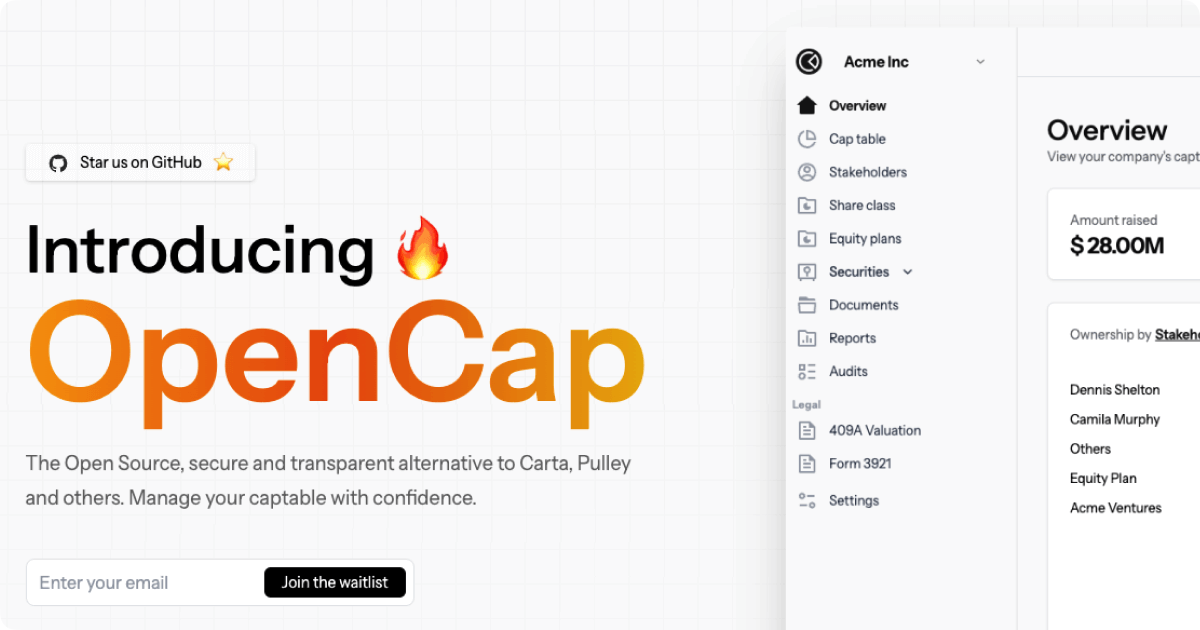
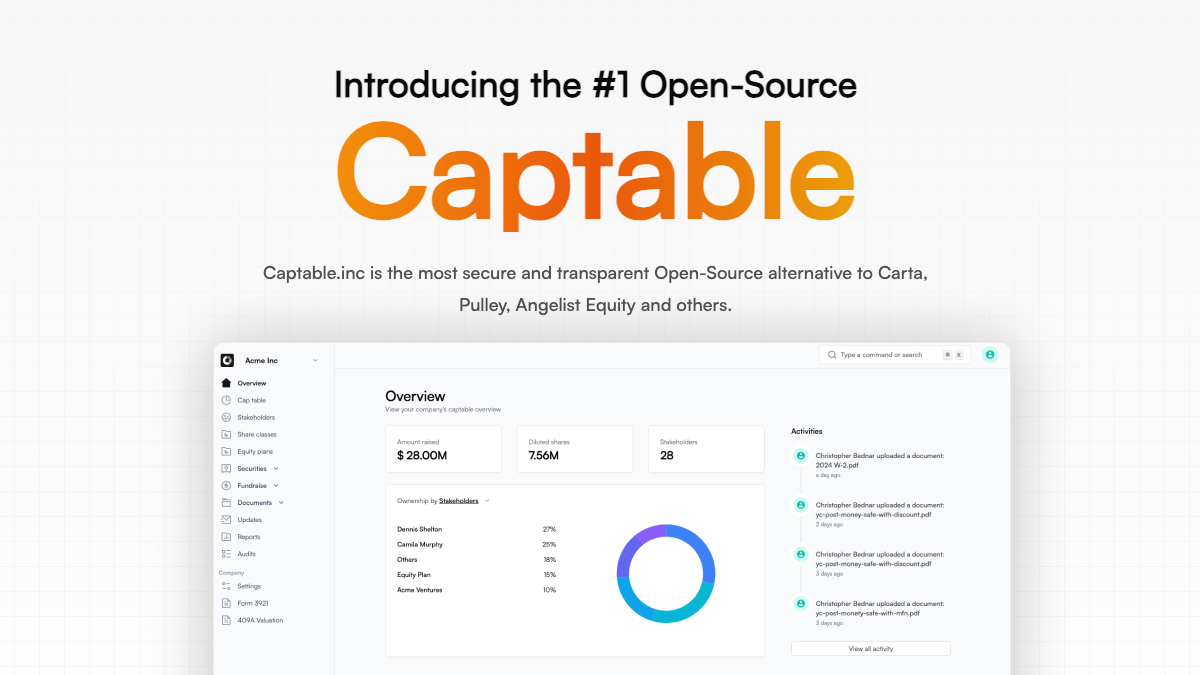
feat: renaming project to Captable, Inc.

diff --git a/src/components/document/share/document-share-modal.tsx b/src/components/document/share/document-share-modal.tsx
@@ -1,15 +1,17 @@
 "use client";
 
-import { useRouter } from "next/navigation";
 import { TagsInput } from "@ark-ui/react";
-import { RiClipboardLine, RiCloseLine } from "@remixicon/react";
-import { useForm } from "react-hook-form";
 import { zodResolver } from "@hookform/resolvers/zod";
+import { RiClipboardLine, RiCloseLine } from "@remixicon/react";
+import { useRouter } from "next/navigation";
+import { useForm } from "react-hook-form";
 
-import { Input } from "@/components/ui/input";
 import { Button } from "@/components/ui/button";
+import { Input } from "@/components/ui/input";
 import { Switch } from "@/components/ui/switch";
 
+import { generatePublicId } from "@/common/id";
+import { CaptableLogo } from "@/components/shared/logo";
 import {
   Dialog,
   DialogContent,
@@ -25,16 +27,14 @@ import {
   FormLabel,
   FormMessage,
 } from "@/components/ui/form";
+import { useToast } from "@/components/ui/use-toast";
 import { cn } from "@/lib/utils";
 import { api } from "@/trpc/react";
-import { OpenCapLogo } from "@/components/shared/logo";
 import {
   DocumentShareMutationSchema,
   type TypeDocumentShareMutation,
 } from "@/trpc/routers/document-share-router/schema";
-import { useToast } from "@/components/ui/use-toast";
 import { useEffect } from "react";
-import { generatePublicId } from "@/common/id";
 
 type DocumentShareModalProps = {
   title: string | React.ReactNode;
@@ -115,7 +115,7 @@ const DocumentShareModal = ({
             <div className="">
               <DialogHeader>
                 <div className="flex justify-center">
-                  <OpenCapLogo className="mb-3 h-10 w-10" />
+                  <CaptableLogo className="mb-3 h-10 w-10" />
                 </div>
                 <DialogTitle className="mb-4 text-center">{title}</DialogTitle>
                 <DialogDescription className="text-center">

diff --git a/src/components/stakeholder/stakeholder-dropdown.tsx b/src/components/stakeholder/stakeholder-dropdown.tsx
@@ -1,4 +1,8 @@
 "use client";
+import Tldr from "@/components/shared/tldr";
+import MultipleStakeholdersModal from "@/components/stakeholder/multiple-stakeholders-modal";
+import SingleStakeholdersModal from "@/components/stakeholder/single-stakeholder-modal";
+import { Button } from "@/components/ui/button";
 import {
   DropdownMenu,
   DropdownMenuContent,
@@ -6,13 +10,7 @@ import {
   DropdownMenuSeparator,
   DropdownMenuTrigger,
 } from "@/components/ui/dropdown-menu";
-import { Button } from "@/components/ui/button";
-import { RiAddFill } from "@remixicon/react";
-import { RiGroupLine } from "@remixicon/react";
-import { RiUserLine } from "@remixicon/react";
-import Tldr from "@/components/shared/tldr";
-import MultipleStakeholdersModal from "@/components/stakeholder/multiple-stakeholders-modal";
-import SingleStakeholdersModal from "@/components/stakeholder/single-stakeholder-modal";
+import { RiAddFill, RiGroupLine, RiUserLine } from "@remixicon/react";
 
 export default function StakeholderDropdown() {
   return (
@@ -34,7 +32,7 @@ export default function StakeholderDropdown() {
                 cta={{
                   label: "Learn more",
                   // TODO - this link should be updated to the correct URL
-                  href: "https://opencap.co/help",
+                  href: "https://captable.inc/help",
                 }}
               />
             }
@@ -57,7 +55,7 @@ export default function StakeholderDropdown() {
                 cta={{
                   label: "Learn more",
                   // TODO - this link should be updated to the correct URL
-                  href: "https://opencap.co/help",
+                  href: "https://captable.inc/help",
                 }}
               />
             }

diff --git a/src/app/(authenticated)/(dashboard)/[publicId]/equity-plans/page.tsx b/src/app/(authenticated)/(dashboard)/[publicId]/equity-plans/page.tsx
@@ -1,15 +1,15 @@
-import { db } from "@/server/db";
-import EquityPlanModal from "./modal";
-import EquityPlanTable from "./table";
-import { Card } from "@/components/ui/card";
+import EmptyState from "@/components/shared/empty-state";
 import Tldr from "@/components/shared/tldr";
 import { Button } from "@/components/ui/button";
+import { Card } from "@/components/ui/card";
 import { withServerSession } from "@/server/auth";
-import EmptyState from "@/components/shared/empty-state";
-import { RiPieChart2Line, RiAddFill } from "@remixicon/react";
+import { db } from "@/server/db";
 import { type EquityPlanMutationType } from "@/trpc/routers/equity-plan/schema";
 import { type ShareClassMutationType } from "@/trpc/routers/share-class/schema";
+import { RiAddFill, RiPieChart2Line } from "@remixicon/react";
 import { type Metadata } from "next";
+import EquityPlanModal from "./modal";
+import EquityPlanTable from "./table";
 
 export const metadata: Metadata = {
   title: "Equity plans",
@@ -59,7 +59,7 @@ const EquityPlanPage = async () => {
               cta={{
                 label: "Learn more",
                 // TODO - this link should be updated to the correct URL
-                href: "https://opencap.co/help",
+                href: "https://captable.inc/help",
               }}
             />
           }
@@ -95,7 +95,7 @@ const EquityPlanPage = async () => {
                 cta={{
                   label: "Learn more",
                   // TODO - this link should be updated to the correct URL
-                  href: "https://opencap.co/help",
+                  href: "https://captable.inc/help",
                 }}
               />
             }

diff --git a/src/app/(authenticated)/(dashboard)/[publicId]/share-classes/page.tsx b/src/app/(authenticated)/(dashboard)/[publicId]/share-classes/page.tsx
@@ -1,14 +1,14 @@
-import { db } from "@/server/db";
-import ShareClassTable from "./table";
-import ShareClassModal from "./modal";
-import { Card } from "@/components/ui/card";
+import EmptyState from "@/components/shared/empty-state";
 import Tldr from "@/components/shared/tldr";
 import { Button } from "@/components/ui/button";
+import { Card } from "@/components/ui/card";
 import { withServerSession } from "@/server/auth";
-import EmptyState from "@/components/shared/empty-state";
-import { RiPieChart2Line, RiAddFill } from "@remixicon/react";
+import { db } from "@/server/db";
 import { type ShareClassMutationType } from "@/trpc/routers/share-class/schema";
+import { RiAddFill, RiPieChart2Line } from "@remixicon/react";
 import { type Metadata } from "next";
+import ShareClassModal from "./modal";
+import ShareClassTable from "./table";
 
 export const metadata: Metadata = {
   title: "Share classes",
@@ -47,7 +47,7 @@ const SharesPage = async () => {
               cta={{
                 label: "Learn more",
                 // TODO - this link should be updated to the correct URL
-                href: "https://opencap.co/help",
+                href: "https://captable.inc/help",
               }}
             />
           }
@@ -83,7 +83,7 @@ const SharesPage = async () => {
                 cta={{
                   label: "Learn more",
                   // TODO - this link should be updated to the correct URL
-                  href: "https://opencap.co/help",
+                  href: "https://captable.inc/help",
                 }}
               />
             }

diff --git a/src/components/member/verify-member-form.tsx b/src/components/member/verify-member-form.tsx
@@ -3,23 +3,23 @@ import {
   ZodAcceptMemberMutationSchema,
   type TypeZodAcceptMemberMutationSchema,
 } from "@/trpc/routers/member-router/schema";
+import { RiArrowRightLine } from "@remixicon/react";
 import { Button } from "../ui/button";
 import { Input } from "../ui/input";
-import { RiArrowRightLine } from "@remixicon/react";
 
+import { api } from "@/trpc/react";
 import { zodResolver } from "@hookform/resolvers/zod";
+import { useSession } from "next-auth/react";
+import { useRouter } from "next/navigation";
 import { useForm } from "react-hook-form";
 import {
   Form,
   FormControl,
   FormField,
   FormItem,
-  FormMessage,
   FormLabel,
+  FormMessage,
 } from "../ui/form";
-import { api } from "@/trpc/react";
-import { useSession } from "next-auth/react";
-import { useRouter } from "next/navigation";
 
 interface VerifyMemberFormProps {
   memberId: string;
@@ -54,7 +54,9 @@ export function VerifyMemberForm({ memberId, token }: VerifyMemberFormProps) {
     <div className="flex min-h-screen w-full items-center justify-center">
       <div className="flex flex-col gap-y-4">
         <div className="flex flex-col gap-y-2 text-center">
-          <h1 className="text-3xl font-semibold">Welcome to our OpenCap! 👋</h1>
+          <h1 className="text-3xl font-semibold">
+            Welcome to our Captable, Inc.! 👋
+          </h1>
           <p className="text-muted-foreground">
             Enter your information to complete onboarding
           </p>

diff --git a/src/emails/MemberInviteEmail.tsx b/src/emails/MemberInviteEmail.tsx
@@ -1,4 +1,3 @@
-import { constants } from "../lib/constants";
 import {
   Body,
   Button,
@@ -10,9 +9,10 @@ import {
   Link,
   Preview,
   Section,
-  Text,
   Tailwind,
+  Text,
 } from "jsx-email";
+import { constants } from "../lib/constants";
 
 interface MemberInviteEmailProps {
   invitedBy: string;
@@ -43,7 +43,7 @@ export const MemberInviteEmail = ({
             </Text>
             <Text className="text-[14px] leading-[24px] text-black">
               <strong>{invitedBy}</strong> has invited you to join{" "}
-              <strong>{companyName}</strong> on <strong>OpenCap</strong>.
+              <strong>{companyName}</strong> on <strong>Captable, Inc.</strong>.
             </Text>
 
             <Section className="mb-[32px] mt-[32px]">
@@ -82,7 +82,7 @@ MemberInviteEmail.PreviewProps = {
   invitedBy: "joker",
   companyName: "Batmobile",
   inviteLink:
-    "https://opencap.co/teams/invite/foo/auth/callback/email?callbackUrl=http%3A%2F%2Flocalhost%3A3000%2Fonboarding&token=671d9eac4043bbe1c22aeafd419ddfe79c2282ec755c558ea789671fdaffe8dd&email=ceo%40example.com",
+    "https://captable.inc/teams/invite/foo/auth/callback/email?callbackUrl=http%3A%2F%2Flocalhost%3A3000%2Fonboarding&token=671d9eac4043bbe1c22aeafd419ddfe79c2282ec755c558ea789671fdaffe8dd&email=ceo%40example.com",
 } as MemberInviteEmailProps;
 
 export default MemberInviteEmail;

diff --git a/src/app/updates/[publicId]/page.tsx b/src/app/updates/[publicId]/page.tsx
@@ -1,12 +1,12 @@
 "use server";
 
-import Link from "next/link";
-import { db } from "@/server/db";
-import { render } from "jsx-email";
 import { dayjsExt } from "@/common/dayjs";
+import { Avatar, AvatarImage } from "@/components/ui/avatar";
 import { Card } from "@/components/ui/card";
 import UpdateRenderer from "@/components/update/renderer";
-import { Avatar, AvatarImage } from "@/components/ui/avatar";
+import { db } from "@/server/db";
+import { render } from "jsx-email";
+import Link from "next/link";
 
 const PublicUpdatePage = async ({
   params: { publicId },
@@ -98,12 +98,12 @@ const PublicUpdatePage = async ({
           <p>
             Powered by{" "}
             <Link
-              href={`https://opencap.co?utm_source=${company.name}&utm_medium=updates&utm_campaign=powered_by`}
+              href={`https://captable.inc?utm_source=${company.name}&utm_medium=updates&utm_campaign=powered_by`}
               target="_blank"
               rel="noopener noreferrer"
               className="text-bold text-teal-500 hover:underline"
             >
-              OpenCap
+              Captable, Inc.
             </Link>
           </p>
         </div>

diff --git a/src/components/stakeholder/stakeholder-uploader.tsx b/src/components/stakeholder/stakeholder-uploader.tsx
@@ -1,14 +1,14 @@
 "use client";
 
-import { useRef, useState } from "react";
-import Link from "next/link";
-import { RiUploadLine } from "@remixicon/react";
 import { Button } from "@/components/ui/button";
-import { parseCSV } from "@/lib/csv-parser";
 import { toast } from "@/components/ui/use-toast";
+import { parseCSV } from "@/lib/csv-parser";
 import { api } from "@/trpc/react";
 import { type TypeStakeholderArray } from "@/trpc/routers/stakeholder-router/schema";
+import { RiUploadLine } from "@remixicon/react";
+import Link from "next/link";
 import { useRouter } from "next/navigation";
+import { useRef, useState } from "react";
 
 type StakeholderUploaderType = {
   setOpen: (val: boolean) => void;
@@ -67,7 +67,7 @@ const StakeholderUploader = ({ setOpen }: StakeholderUploaderType) => {
         Please download the{" "}
         <Link
           download
-          href="/sample-csv/opencap-stakeholders-template.csv"
+          href="/sample-csv/captable-stakeholders-template.csv"
           target="_blank"
           rel="noopener noreferrer"
           className="rounded bg-gray-300/70 px-2 py-1 text-xs font-medium hover:bg-gray-400/50"

diff --git a/src/app/(authenticated)/(dashboard)/[publicId]/equity-plans/table.tsx b/src/app/(authenticated)/(dashboard)/[publicId]/equity-plans/table.tsx
@@ -7,13 +7,13 @@ import {
   TableRow,
 } from "@/components/ui/table";
 
-import EquityPlanModal from "./modal";
 import Tldr from "@/components/shared/tldr";
 import { Card } from "@/components/ui/card";
-const formatter = new Intl.NumberFormat("en-US");
-import { RiEqualizer2Line } from "@remixicon/react";
 import { type EquityPlanMutationType } from "@/trpc/routers/equity-plan/schema";
 import { type ShareClassMutationType } from "@/trpc/routers/share-class/schema";
+import { RiEqualizer2Line } from "@remixicon/react";
+import EquityPlanModal from "./modal";
+const formatter = new Intl.NumberFormat("en-US");
 
 type EquityPlanTableProps = {
   equityPlans: EquityPlanMutationType[];
@@ -85,7 +85,7 @@ const EquityPlanTable = ({
                       cta={{
                         label: "Learn more",
                         // TODO - this link should be updated to the correct URL
-                        href: "https://opencap.co/help",
+                        href: "https://captable.inc/help",
                       }}
                     />
                   }

diff --git a/src/app/(authenticated)/(dashboard)/[publicId]/share-classes/table.tsx b/src/app/(authenticated)/(dashboard)/[publicId]/share-classes/table.tsx
@@ -7,12 +7,12 @@ import {
   TableRow,
 } from "@/components/ui/table";
 
-import ShareClassModal from "./modal";
 import Tldr from "@/components/shared/tldr";
 import { Card } from "@/components/ui/card";
-const formatter = new Intl.NumberFormat("en-US");
-import { RiEqualizer2Line } from "@remixicon/react";
 import { type ShareClassMutationType } from "@/trpc/routers/share-class/schema";
+import { RiEqualizer2Line } from "@remixicon/react";
+import ShareClassModal from "./modal";
+const formatter = new Intl.NumberFormat("en-US");
 
 type ShareClassTableProps = {
   shareClasses: ShareClassMutationType[];
@@ -57,7 +57,7 @@ const ShareClassTable = ({ shareClasses }: ShareClassTableProps) => {
                       cta={{
                         label: "Learn more",
                         // TODO - this link should be updated to the correct URL
-                        href: "https://opencap.co/help",
+                        href: "https://captable.inc/help",
                       }}
                     />
                   }

diff --git a/src/components/update/editor.tsx b/src/components/update/editor.tsx
@@ -71,7 +71,7 @@ const UpdatesEditor = ({ update, companyPublicId }: UpdatesEditorProps) => {
       },
       content: [
         {
-          text: "Here's a quick update on what's been happening at OpenCap this month. We're excited to share that we've hit a major milestone! Our team has been hard at work and we're proud to announce that we've successfully launched our new product feature.",
+          text: "Here's a quick update on what's been happening at Captable, Inc. this month. We're excited to share that we've hit a major milestone! Our team has been hard at work and we're proud to announce that we've successfully launched our new product feature.",
           type: "text",
           styles: {},
         },
@@ -144,7 +144,7 @@ const UpdatesEditor = ({ update, companyPublicId }: UpdatesEditorProps) => {
       },
       content: [
         {
-          text: "The OpenCap Team",
+          text: "The Captable, Inc. Team",
           type: "text",
           styles: {},
         },

diff --git a/src/components/navbar.tsx b/src/components/navbar.tsx
@@ -1,11 +1,10 @@
 "use client";
 
-import React from "react";
-import Link from "next/link";
 import { constants } from "@/lib/constants";
-import { OpenCapLogo } from "./shared/logo";
-import { RiTwitterFill, RiGithubFill, RiDiscordFill } from "@remixicon/react";
+import { RiDiscordFill, RiGithubFill, RiTwitterFill } from "@remixicon/react";
 import { useSession } from "next-auth/react";
+import Link from "next/link";
+import { CaptableLogo } from "./shared/logo";
 import { buttonVariants } from "./ui/button";
 
 export const Navbar = () => {
@@ -17,7 +16,7 @@ export const Navbar = () => {
         href="/#"
         className="flex items-center gap-2 text-2xl hover:no-underline"
       >
-        <OpenCapLogo className="h-9 w-9" />
+        <CaptableLogo className="h-9 w-9" />
       </Link>
       <div className="grow" />
       <div className="flex items-center gap-4 text-sm">
